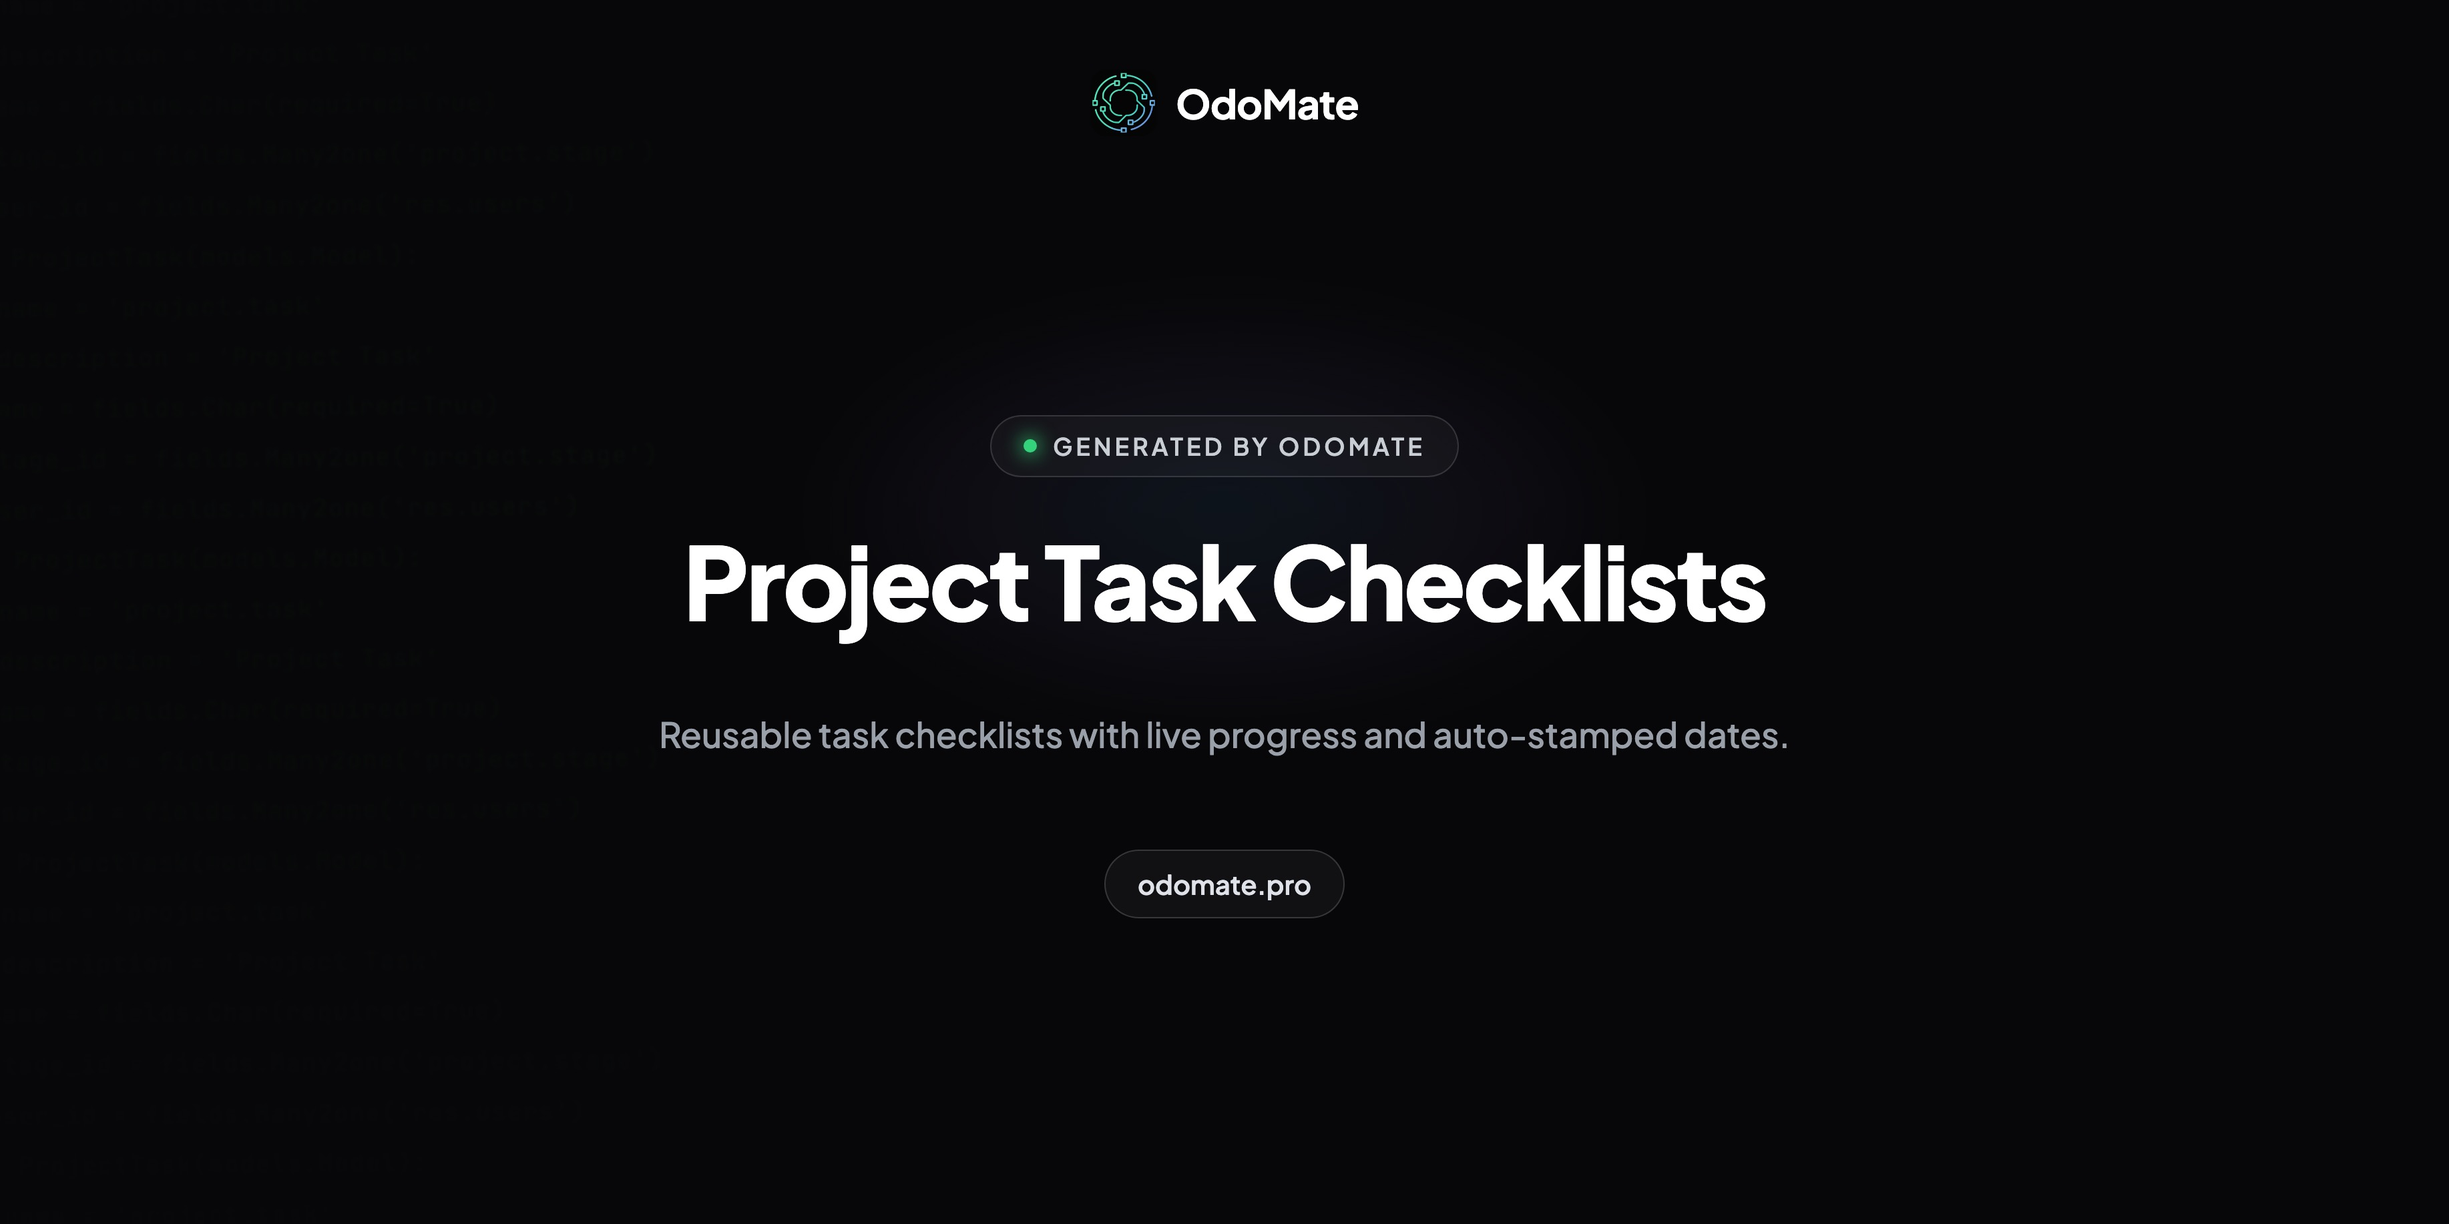
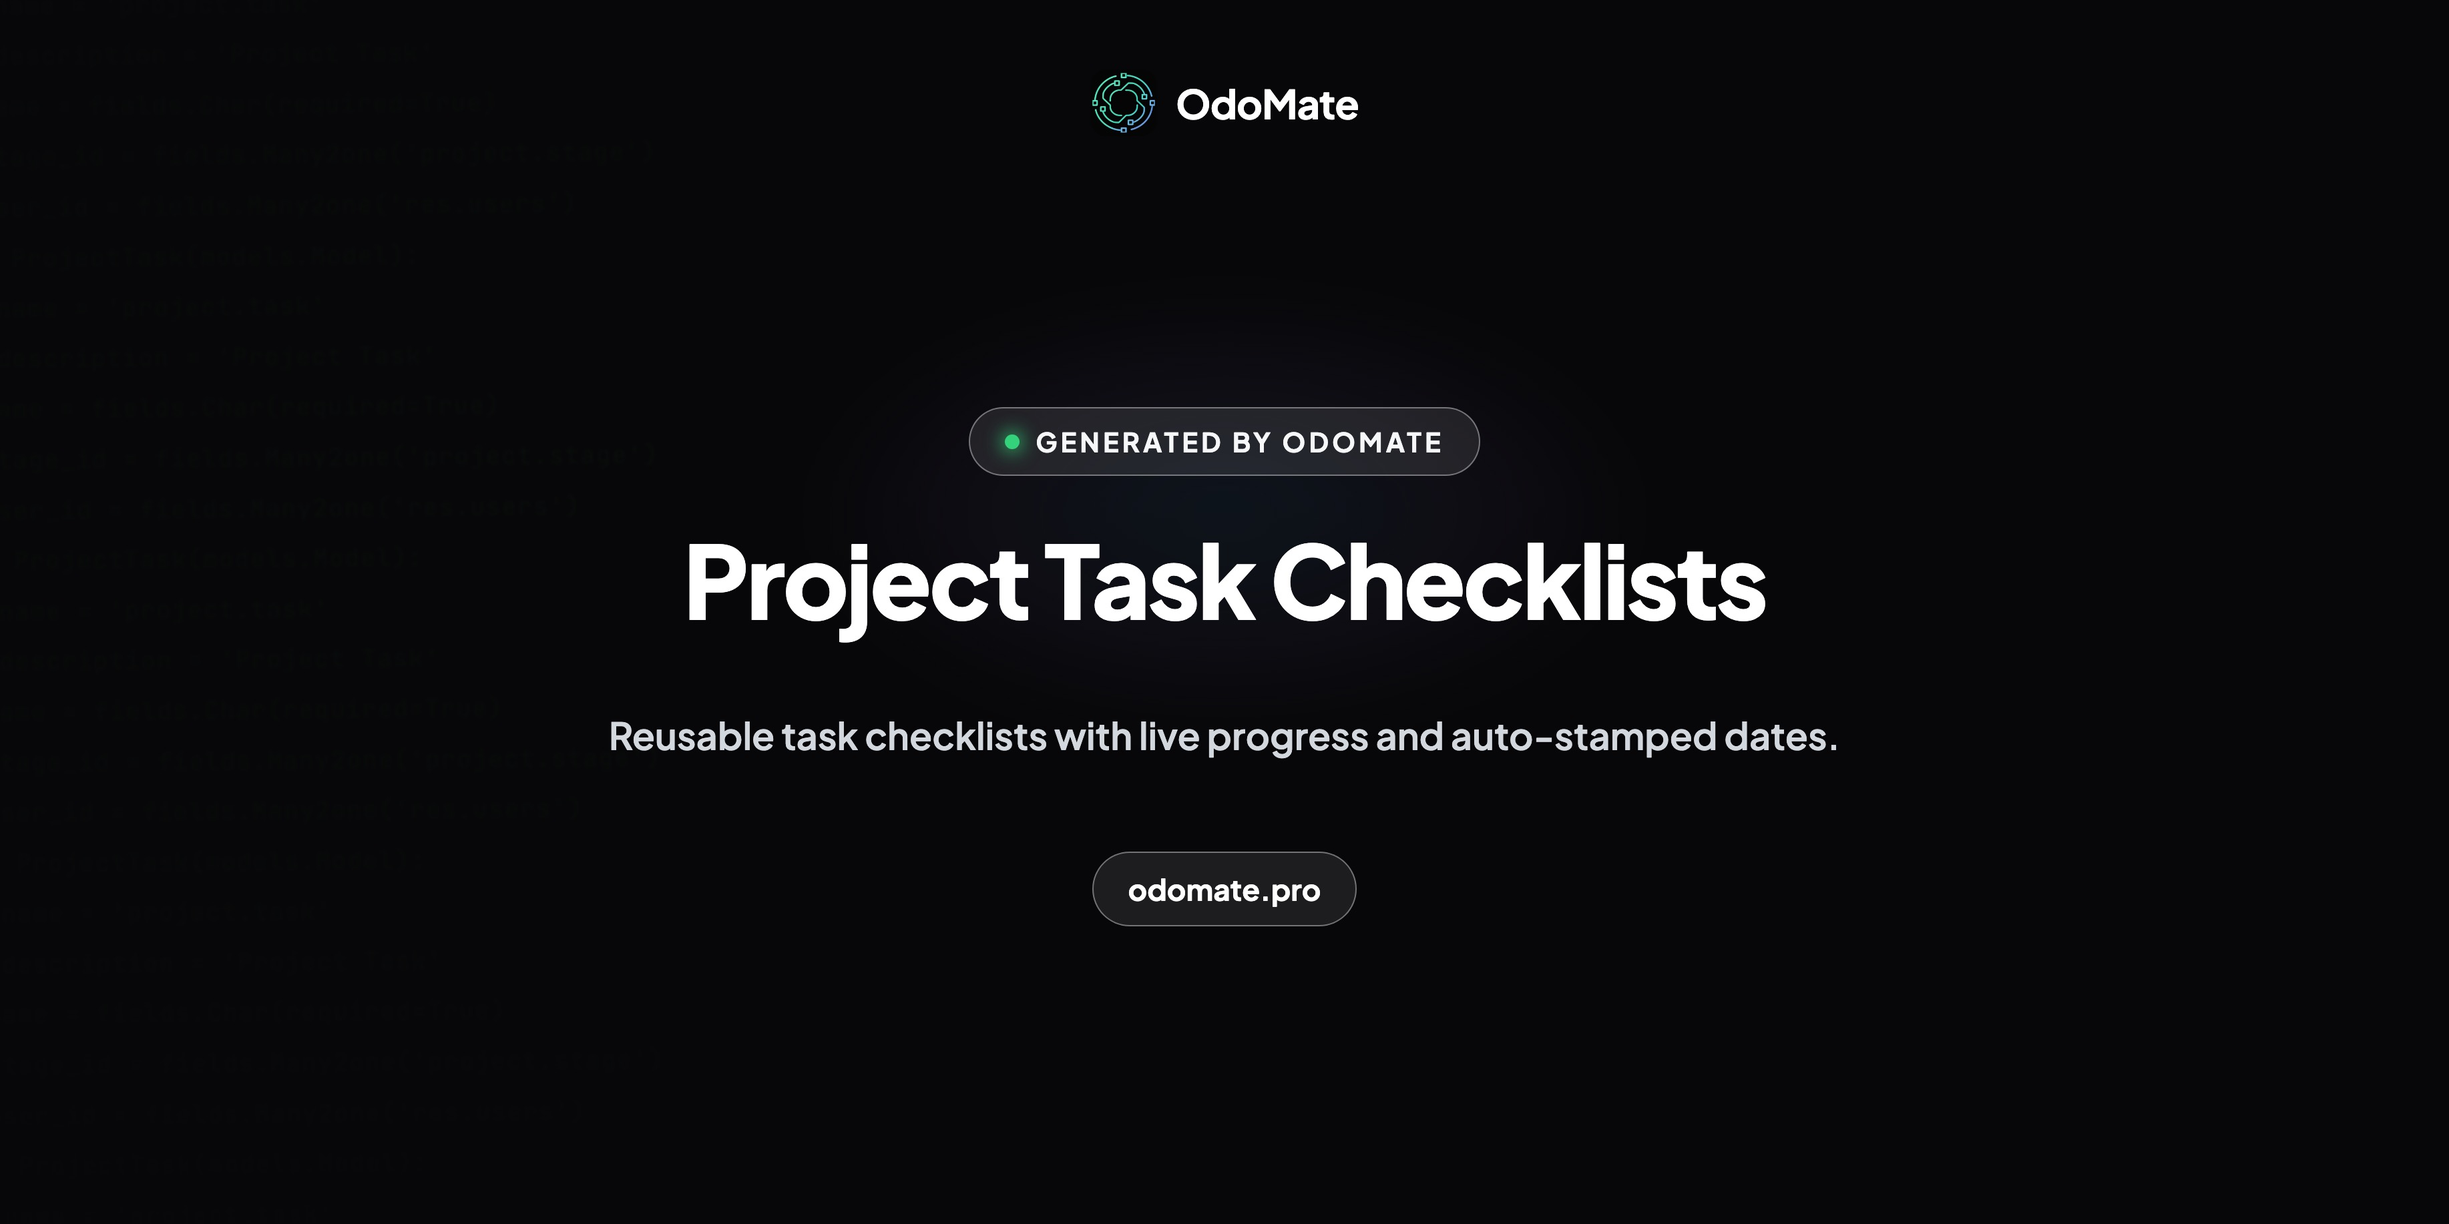
fix(project_checklist): improve listing legibility and header alignment
Header used display:flex + justify-content:space-between, both stripped
by the store's inline-style whitelist, so "Generated by OdoMate" no
longer aligned to the page's right edge. Replace with a float-based
layout (float/clear survive the whitelist).

Darken/bump feature-card copy, limitations list, footer link labels,
and the "OdoMate Team" byline (previously #a1a1aa, near-invisible on
white) for better contrast. Regenerate banner.jpg with stronger pill/
tagline contrast so it holds up at the small size the Store displays it.

Changed region(s): [[0.2486, 0.5905, 0.7459, 0.6216], [0.404, 0.3419, 0.5905, 0.373], [0.4662, 0.7148, 0.5594, 0.7459]]

diff --git a/odomate_project_checklist/static/description/index.html b/odomate_project_checklist/static/description/index.html
@@ -10,15 +10,20 @@
 <body>
 <div style="max-width:900px; margin:0 auto; padding:0 24px; font-family:Inter, system-ui, -apple-system, sans-serif; color:#27272a; line-height:1.6; text-align:left;">
 
-  <div style="padding:32px 0 24px; border-bottom:1px solid #e4e4e7; display:flex; align-items:center; justify-content:space-between; flex-wrap:wrap;">
-    <a href="https://odomate.pro?utm_source=appsstore&utm_medium=content&utm_campaign=project-task-checklists" style="display:flex; align-items:center; text-decoration:none; margin:6px 24px 6px 0;">
[1 lines of base64/hex data omitted]
-      <span style="font-weight:700; font-size:20px; color:#09090b;">OdoMate</span>
-    </a>
-    <a href="https://odomate.pro?utm_source=appsstore&utm_medium=content&utm_campaign=project-task-checklists" style="font-weight:700; font-size:16px; color:#047857; text-decoration:none; margin:6px 24px 6px 0;">odomate.pro</a>
-    <a href="https://odomate.pro?utm_source=appsstore&utm_medium=content&utm_campaign=project-task-checklists" style="display:inline-flex; align-items:center; padding:6px 14px; border-radius:999px; background-color:#fafafa; border:1px solid #e4e4e7; font-size:13px; font-weight:600; color:#3f3f46; text-decoration:none; margin:6px 0;">
-      <span style="width:8px; height:8px; border-radius:50%; background-color:#24cc9a; display:inline-block; margin-right:8px;"></span>Generated by&nbsp;<b style="color:#047857;">OdoMate</b>
-    </a>
+  <div style="padding:32px 0 24px; border-bottom:1px solid #e4e4e7;">
+    <div style="float:left;">
+      <a href="https://odomate.pro?utm_source=appsstore&utm_medium=content&utm_campaign=project-task-checklists" style="text-decoration:none;">
[1 lines of base64/hex data omitted]
+        <span style="font-weight:800; font-size:22px; color:#09090b; vertical-align:middle;">OdoMate</span>
+      </a>
+      <a href="https://odomate.pro?utm_source=appsstore&utm_medium=content&utm_campaign=project-task-checklists" style="font-weight:700; font-size:16px; color:#036045; text-decoration:underline; margin-left:16px; vertical-align:middle;">odomate.pro</a>
+    </div>
+    <div style="float:right;">
+      <a href="https://odomate.pro?utm_source=appsstore&utm_medium=content&utm_campaign=project-task-checklists" style="display:inline-block; padding:8px 16px; border-radius:999px; background-color:#eef2f1; border:1px solid #c7d3d0; font-size:13px; font-weight:700; color:#1f2937; text-decoration:none;">
+        <span style="width:9px; height:9px; border-radius:50%; background-color:#059669; display:inline-block; margin-right:8px;"></span>Generated by <b style="color:#036045;">OdoMate</b>
+      </a>
+    </div>
+    <div style="clear:both;"></div>
   </div>
 
   <div style="margin:28px 0; background-color:#047857; border-radius:10px; padding-left:4px;">
@@ -37,42 +42,42 @@
       <div style="display:inline-block; vertical-align:top; width:44%; min-width:250px; background-color:#ffffff; border:1px solid #e4e4e7; border-radius:14px; padding:20px; margin:0 0 18px;">
         <img src="assets/icons/feat-templates.png" width="40" height="40" style="display:block; margin-bottom:14px;" alt="">
         <h3 style="font-weight:700; font-size:16px; color:#09090b; margin:0 0 6px;">Reusable Templates</h3>
-        <p style="font-size:14px; color:#71717a; margin:0;">Build a step-by-step checklist once, then attach it to any project task.</p>
+        <p style="font-size:15px; color:#3f3f46; margin:0;">Build a step-by-step checklist once, then attach it to any project task.</p>
       </div>
       <div style="display:inline-block; vertical-align:top; width:44%; min-width:250px; background-color:#ffffff; border:1px solid #e4e4e7; border-radius:14px; padding:20px; margin:0 0 18px;">
         <img src="assets/icons/feat-copies.png" width="40" height="40" style="display:block; margin-bottom:14px;" alt="">
         <h3 style="font-weight:700; font-size:16px; color:#09090b; margin:0 0 6px;">Independent Per-Task Copies</h3>
-        <p style="font-size:14px; color:#71717a; margin:0;">Each task gets its own copy — freely add, remove, rename, or reorder steps without ever touching the original template.</p>
+        <p style="font-size:15px; color:#3f3f46; margin:0;">Each task gets its own copy — freely add, remove, rename, or reorder steps without ever touching the original template.</p>
       </div>
       <div style="display:inline-block; vertical-align:top; width:44%; min-width:250px; background-color:#ffffff; border:1px solid #e4e4e7; border-radius:14px; padding:20px; margin:0 0 18px;">
         <img src="assets/icons/feat-actions.png" width="40" height="40" style="display:block; margin-bottom:14px;" alt="">
         <h3 style="font-weight:700; font-size:16px; color:#09090b; margin:0 0 6px;">One-Click Step Actions</h3>
-        <p style="font-size:14px; color:#71717a; margin:0;">Start, Done, and Cancel actions with color-coded rows make status obvious at a glance.</p>
+        <p style="font-size:15px; color:#3f3f46; margin:0;">Start, Done, and Cancel actions with color-coded rows make status obvious at a glance.</p>
       </div>
       <div style="display:inline-block; vertical-align:top; width:44%; min-width:250px; background-color:#ffffff; border:1px solid #e4e4e7; border-radius:14px; padding:20px; margin:0 0 18px;">
         <img src="assets/icons/feat-switching.png" width="40" height="40" style="display:block; margin-bottom:14px;" alt="">
         <h3 style="font-weight:700; font-size:16px; color:#09090b; margin:0 0 6px;">Safe Checklist Switching</h3>
-        <p style="font-size:14px; color:#71717a; margin:0;">Replacing an in-progress checklist shows a warning first, so you never lose recorded progress by accident.</p>
+        <p style="font-size:15px; color:#3f3f46; margin:0;">Replacing an in-progress checklist shows a warning first, so you never lose recorded progress by accident.</p>
       </div>
       <div style="display:inline-block; vertical-align:top; width:44%; min-width:250px; background-color:#ffffff; border:1px solid #e4e4e7; border-radius:14px; padding:20px; margin:0 0 18px;">
         <img src="assets/icons/feat-progress.png" width="40" height="40" style="display:block; margin-bottom:14px;" alt="">
         <h3 style="font-weight:700; font-size:16px; color:#09090b; margin:0 0 6px;">Smart Progress Tracking</h3>
-        <p style="font-size:14px; color:#71717a; margin:0;">Cancelled steps are excluded from the calculation, so an irrelevant step can never hold you below 100%.</p>
+        <p style="font-size:15px; color:#3f3f46; margin:0;">Cancelled steps are excluded from the calculation, so an irrelevant step can never hold you below 100%.</p>
       </div>
       <div style="display:inline-block; vertical-align:top; width:44%; min-width:250px; background-color:#ffffff; border:1px solid #e4e4e7; border-radius:14px; padding:20px; margin:0 0 18px;">
         <img src="assets/icons/feat-dates.png" width="40" height="40" style="display:block; margin-bottom:14px;" alt="">
         <h3 style="font-weight:700; font-size:16px; color:#09090b; margin:0 0 6px;">Automatic Start/End Dates</h3>
-        <p style="font-size:14px; color:#71717a; margin:0;">The task's dates stamp themselves as work happens — no manual entry, ever.</p>
+        <p style="font-size:15px; color:#3f3f46; margin:0;">The task's dates stamp themselves as work happens — no manual entry, ever.</p>
       </div>
       <div style="display:inline-block; vertical-align:top; width:44%; min-width:250px; background-color:#ffffff; border:1px solid #e4e4e7; border-radius:14px; padding:20px; margin:0 0 18px;">
         <img src="assets/icons/feat-library.png" width="40" height="40" style="display:block; margin-bottom:14px;" alt="">
         <h3 style="font-weight:700; font-size:16px; color:#09090b; margin:0 0 6px;">Manager-Curated Library</h3>
-        <p style="font-size:14px; color:#71717a; margin:0;">Managers maintain the checklist library; everyone on the team can pick from it when working on a task.</p>
+        <p style="font-size:15px; color:#3f3f46; margin:0;">Managers maintain the checklist library; everyone on the team can pick from it when working on a task.</p>
       </div>
       <div style="display:inline-block; vertical-align:top; width:44%; min-width:250px; background-color:#ffffff; border:1px solid #e4e4e7; border-radius:14px; padding:20px; margin:0 0 18px;">
         <img src="assets/icons/feat-examples.png" width="40" height="40" style="display:block; margin-bottom:14px;" alt="">
         <h3 style="font-weight:700; font-size:16px; color:#09090b; margin:0 0 6px;">Ready-to-Use Examples</h3>
-        <p style="font-size:14px; color:#71717a; margin:0;">Ships with three example checklists — Client Onboarding, Website Launch, Employee Offboarding — so you can see it working right away.</p>
+        <p style="font-size:15px; color:#3f3f46; margin:0;">Ships with three example checklists — Client Onboarding, Website Launch, Employee Offboarding — so you can see it working right away.</p>
       </div>
     </div>
   </div>
@@ -91,7 +96,7 @@
     <div style="background-color:#3f3f46; border-radius:10px; padding-left:4px;">
     <div style="background-color:#ffffff; border:1px solid #e4e4e7; border-radius:0 10px 10px 0; padding:20px 24px;">
       <div style="margin-bottom:12px;"><img src="assets/icons/limitations.png" width="18" height="18" style="vertical-align:middle; margin-right:10px;" alt=""><h2 style="display:inline-block; vertical-align:middle; font-weight:700; font-size:16px; color:#09090b; margin:0;">Known limitations</h2></div>
-      <ul style="padding-left:20px; color:#52525b; font-size:14px; margin:0;">
+      <ul style="padding-left:20px; color:#3f3f46; font-size:15px; margin:0;">
         <li style="margin-bottom:6px;">No per-step assignment — the task's existing assignee owns all steps.</li>
         <li style="margin-bottom:6px;">No email notifications or reminders on step changes.</li>
         <li style="margin-bottom:6px;">Checklist templates aren't isolated per company.</li>
@@ -111,18 +116,18 @@
       <p style="margin:0 0 14px; color:#27272a;">Inspect this module — the code, the tests, the demo — then request early beta access to try OdoMate on your own specification.</p>
       <div>
         <a href="https://www.odomate.pro/?utm_source=appsstore&utm_medium=content&utm_campaign=project-task-checklists#waitlist" style="display:inline-block; margin-top:6px; padding:12px 26px; border-radius:999px; background-color:#047857; color:#ffffff; font-weight:700; font-size:15px; text-decoration:none;">Request early beta access</a>
-        <div style="margin-top:12px; font-size:13px; color:#71717a;">The Apps Store disables outside links, so copy this address into your browser: <a href="https://www.odomate.pro/#waitlist" style="color:#047857; font-weight:600; text-decoration:none;">www.odomate.pro/#waitlist</a></div>
+        <div style="margin-top:12px; font-size:14px; color:#52525b;">The Apps Store disables outside links, so copy this address into your browser: <a href="https://www.odomate.pro/#waitlist" style="color:#047857; font-weight:600; text-decoration:none;">www.odomate.pro/#waitlist</a></div>
       </div>
     </div>
   </div>
 
-  <div style="padding:32px 0 48px; border-top:1px solid #e4e4e7; font-size:14px; color:#52525b;">
+  <div style="padding:32px 0 48px; border-top:1px solid #e4e4e7; font-size:15px; color:#3f3f46;">
     <div style="margin-bottom:16px; display:flex; align-items:center;"><img src="assets/icons/mail.png" width="16" height="16" style="vertical-align:middle; margin-right:10px;" alt=""> <a href="mailto:info@odomate.pro" style="color:#047857; text-decoration:none;">info@odomate.pro</a></div>
-    <div style="display:flex; align-items:center; margin-bottom:10px; word-break:break-all;"><img src="assets/icons/globe.png" width="16" height="16" style="vertical-align:middle; margin-right:10px;" alt=""><span style="font-weight:600; color:#27272a; min-width:68px; margin-right:10px;">Website</span><a href="https://odomate.pro" style="color:#047857; text-decoration:none;">https://odomate.pro</a></div>
-    <div style="display:flex; align-items:center; margin-bottom:10px; word-break:break-all;"><img src="assets/icons/linkedin.png" width="16" height="16" style="vertical-align:middle; margin-right:10px;" alt=""><span style="font-weight:600; color:#27272a; min-width:68px; margin-right:10px;">LinkedIn</span><a href="https://www.linkedin.com/company/odomate-ai/" style="color:#047857; text-decoration:none;">https://www.linkedin.com/company/odomate-ai/</a></div>
-    <div style="display:flex; align-items:center; margin-bottom:10px; word-break:break-all;"><img src="assets/icons/x.png" width="16" height="16" style="vertical-align:middle; margin-right:10px;" alt=""><span style="font-weight:600; color:#27272a; min-width:68px; margin-right:10px;">X</span><a href="https://x.com/OdoMateAI" style="color:#047857; text-decoration:none;">https://x.com/OdoMateAI</a></div>
-    <div style="display:flex; align-items:center; margin-bottom:10px; word-break:break-all;"><img src="assets/icons/youtube.png" width="16" height="16" style="vertical-align:middle; margin-right:10px;" alt=""><span style="font-weight:600; color:#27272a; min-width:68px; margin-right:10px;">YouTube</span><a href="https://www.youtube.com/@odomate-ai" style="color:#047857; text-decoration:none;">https://www.youtube.com/@odomate-ai</a></div>
-    <div style="margin-top:20px; font-size:13px; color:#a1a1aa;">— OdoMate Team</div>
+    <div style="display:flex; align-items:center; margin-bottom:10px; word-break:break-all;"><img src="assets/icons/globe.png" width="16" height="16" style="vertical-align:middle; margin-right:10px;" alt=""><span style="font-weight:700; color:#09090b; min-width:68px; margin-right:10px;">Website</span><a href="https://odomate.pro" style="color:#047857; text-decoration:none;">https://odomate.pro</a></div>
+    <div style="display:flex; align-items:center; margin-bottom:10px; word-break:break-all;"><img src="assets/icons/linkedin.png" width="16" height="16" style="vertical-align:middle; margin-right:10px;" alt=""><span style="font-weight:700; color:#09090b; min-width:68px; margin-right:10px;">LinkedIn</span><a href="https://www.linkedin.com/company/odomate-ai/" style="color:#047857; text-decoration:none;">https://www.linkedin.com/company/odomate-ai/</a></div>
+    <div style="display:flex; align-items:center; margin-bottom:10px; word-break:break-all;"><img src="assets/icons/x.png" width="16" height="16" style="vertical-align:middle; margin-right:10px;" alt=""><span style="font-weight:700; color:#09090b; min-width:68px; margin-right:10px;">X</span><a href="https://x.com/OdoMateAI" style="color:#047857; text-decoration:none;">https://x.com/OdoMateAI</a></div>
+    <div style="display:flex; align-items:center; margin-bottom:10px; word-break:break-all;"><img src="assets/icons/youtube.png" width="16" height="16" style="vertical-align:middle; margin-right:10px;" alt=""><span style="font-weight:700; color:#09090b; min-width:68px; margin-right:10px;">YouTube</span><a href="https://www.youtube.com/@odomate-ai" style="color:#047857; text-decoration:none;">https://www.youtube.com/@odomate-ai</a></div>
+    <div style="margin-top:20px; font-size:14px; color:#52525b; font-weight:500;">— OdoMate Team</div>
   </div>
 
 </div>
